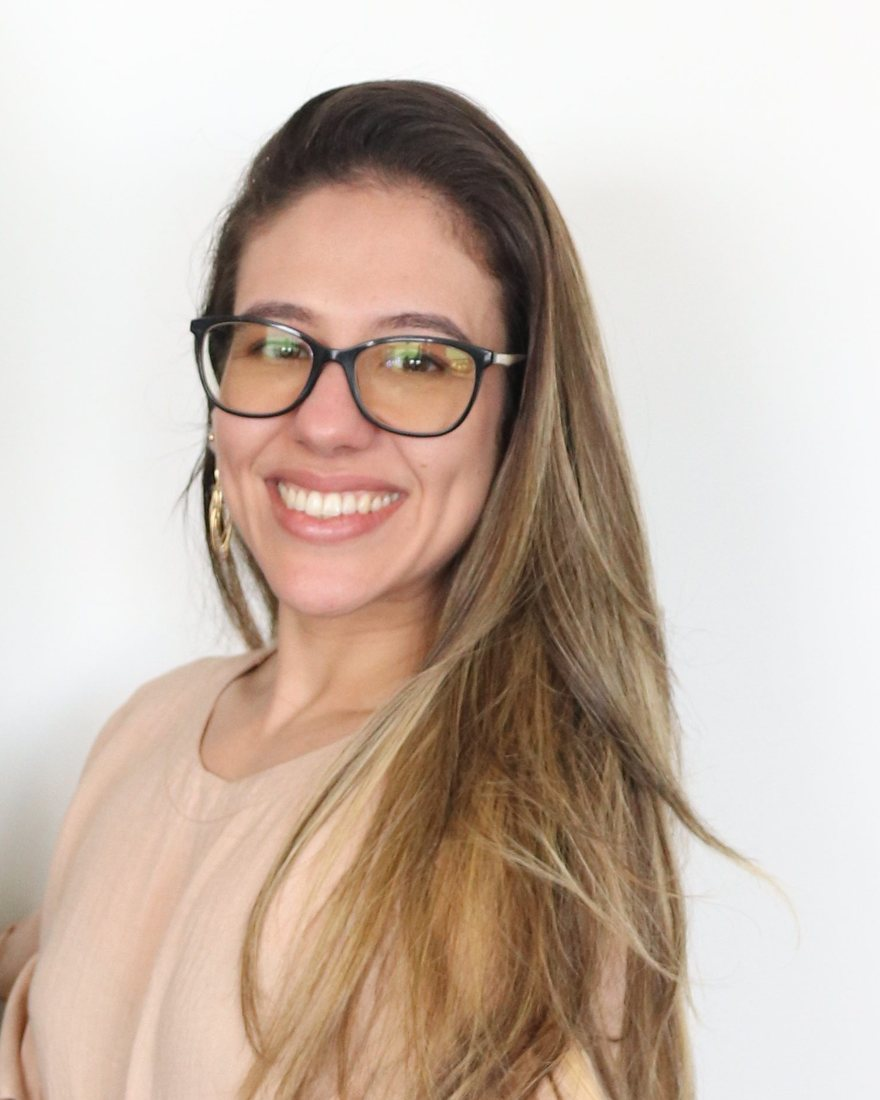
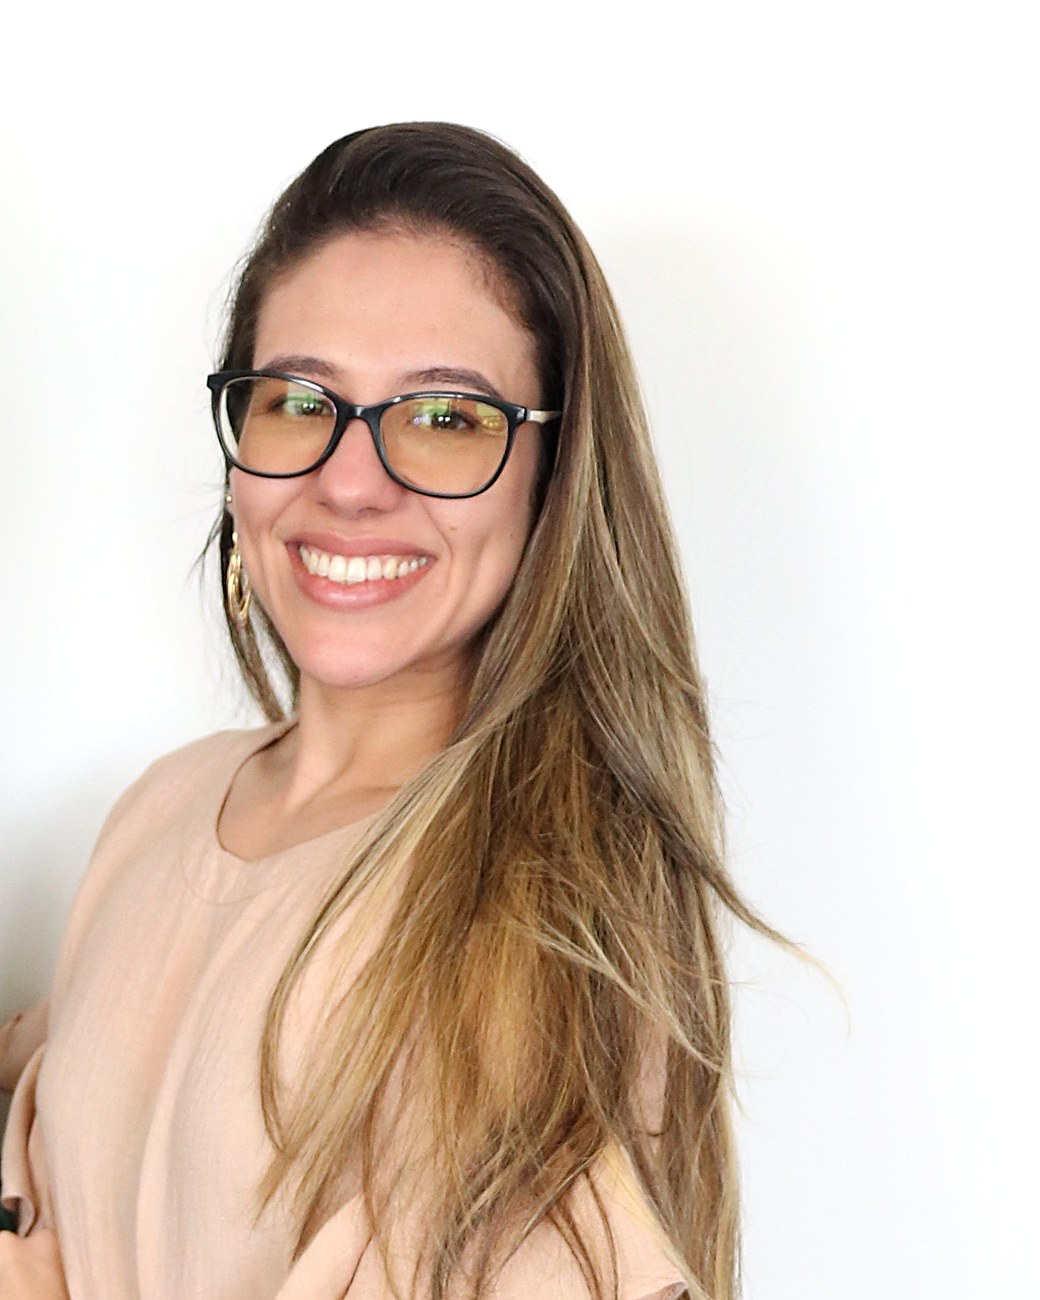
Fotos com melhor qualidade nas seções Método e Sobre
Claude-Session: https://claude.ai/code/session_01JoztPH7Rb8QqrKAAiZTiww

diff --git a/site/index.html b/site/index.html
@@ -339,7 +339,7 @@ footer .legal{grid-column:1/-1;border-top:1px solid rgba(255,255,255,.15);paddin
 <!-- MÉTODO -->
 <section class="metodo" id="metodo">
   <div class="wrap">
-    <div class="img-round reveal"><img src="img/metodo.jpg" alt="Lohraine Reink sorrindo, de camisa rosa" width="704" height="880" loading="lazy"></div>
+    <div class="img-round reveal"><img src="img/metodo.jpg" alt="Lohraine Reink sentada no consultório" width="1080" height="1350" loading="lazy"></div>
     <div>
       <span class="eyebrow reveal">O olhar integrativo</span>
       <h2 class="reveal">Não existe plano certo para todo mundo. Existe o plano certo <span class="hl">para você</span></h2>
@@ -428,7 +428,7 @@ footer .legal{grid-column:1/-1;border-top:1px solid rgba(255,255,255,.15);paddin
 <!-- SOBRE -->
 <section class="sobre" id="sobre">
   <div class="wrap">
-    <div class="art reveal"><div class="img-round"><img src="img/sobre.jpg" alt="Lohraine Reink sorrindo" width="880" height="1100" loading="lazy"></div></div>
+    <div class="art reveal"><div class="img-round"><img src="img/sobre.jpg" alt="Lohraine Reink sorrindo" width="1040" height="1300" loading="lazy"></div></div>
     <div>
       <span class="eyebrow reveal">Prazer, Lohraine</span>
       <h2 class="reveal">Nutrição com profundidade, <span class="hl">cuidado e presença</span></h2>
